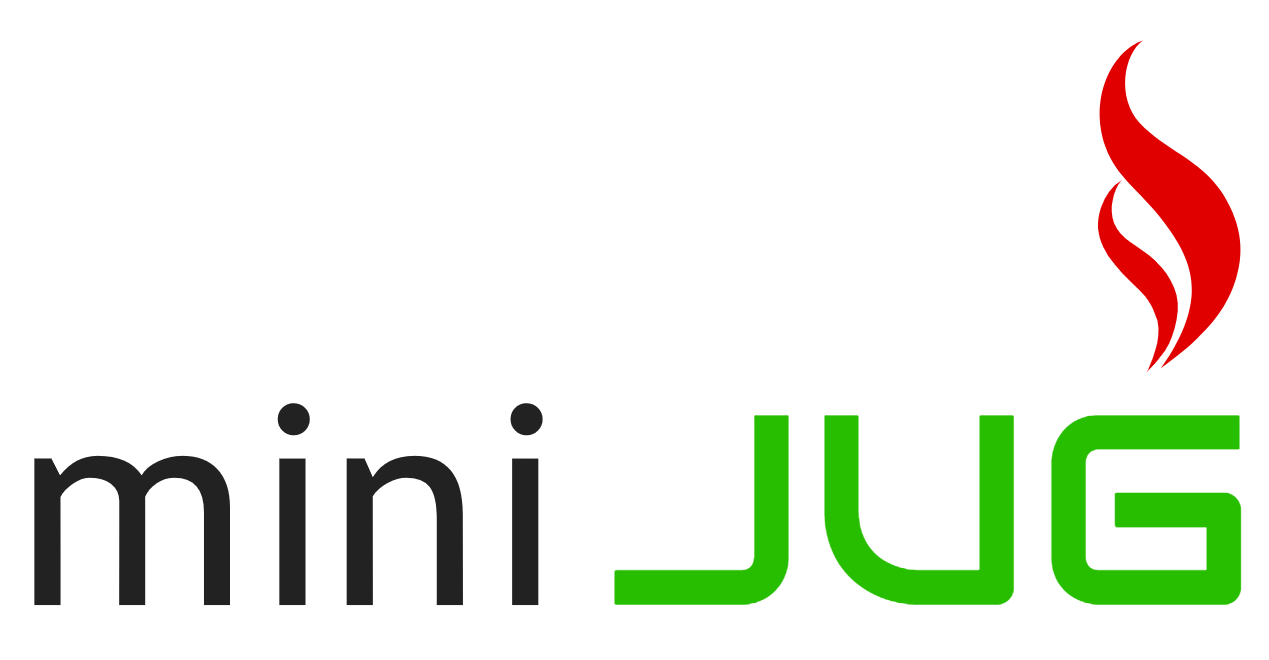
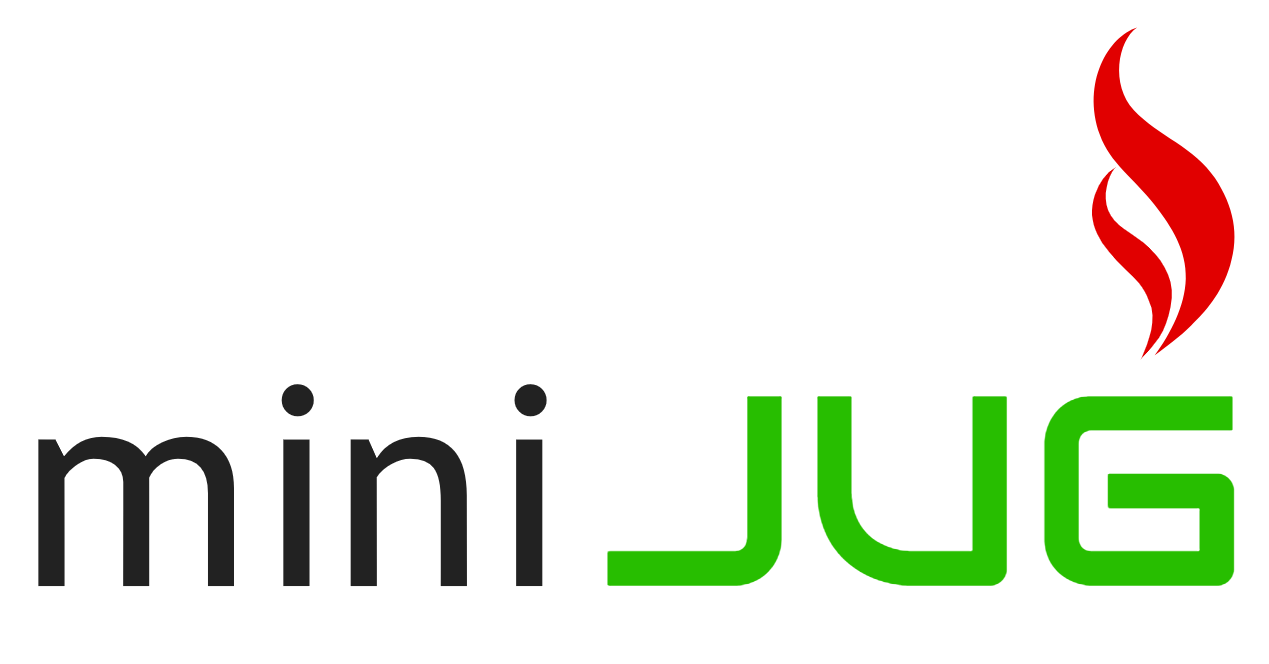
Adjusted minijug.png dimensions

diff --git a/concise_method_bodies.html b/concise_method_bodies.html
@@ -18,7 +18,7 @@
     <meta name="telegram:channel" content="@miniJUG">
     <meta property="og:image" content="https://minijug.ru/minijug.png">
     <meta property="og:image:width" content="1269">
-    <meta property="og:image:height" content="660">
+    <meta property="og:image:height" content="664">
     <meta name="twitter:image" content="https://minijug.ru/minijug.png">
 
     <link rel="shortcut icon" href="/favicon.ico" type="image/x-icon">

diff --git a/epsilon_gc.html b/epsilon_gc.html
@@ -18,7 +18,7 @@
     <meta name="telegram:channel" content="@miniJUG">
     <meta property="og:image" content="https://minijug.ru/minijug.png">
     <meta property="og:image:width" content="1269">
-    <meta property="og:image:height" content="660">
+    <meta property="og:image:height" content="664">
     <meta name="twitter:image" content="https://minijug.ru/minijug.png">
 
     <link rel="shortcut icon" href="/favicon.ico" type="image/x-icon">

diff --git a/hidden_classes.html b/hidden_classes.html
@@ -18,7 +18,7 @@
     <meta name="telegram:channel" content="@miniJUG">
     <meta property="og:image" content="https://minijug.ru/minijug.png">
     <meta property="og:image:width" content="1269">
-    <meta property="og:image:height" content="660">
+    <meta property="og:image:height" content="664">
     <meta name="twitter:image" content="https://minijug.ru/minijug.png">
 
     <link rel="shortcut icon" href="/favicon.ico" type="image/x-icon">

diff --git a/index.html b/index.html
@@ -18,7 +18,7 @@
     <meta name="telegram:channel" content="@miniJUG">
     <meta property="og:image" content="https://minijug.ru/minijug.png">
     <meta property="og:image:width" content="1269">
-    <meta property="og:image:height" content="660">
+    <meta property="og:image:height" content="664">
     <meta name="twitter:image" content="https://minijug.ru/minijug.png">
 
     <link rel="shortcut icon" href="/favicon.ico" type="image/x-icon">

diff --git a/java_10_is_out.html b/java_10_is_out.html
@@ -18,7 +18,7 @@
     <meta name="telegram:channel" content="@miniJUG">
     <meta property="og:image" content="https://minijug.ru/minijug.png">
     <meta property="og:image:width" content="1269">
-    <meta property="og:image:height" content="660">
+    <meta property="og:image:height" content="664">
     <meta name="twitter:image" content="https://minijug.ru/minijug.png">
 
     <link rel="shortcut icon" href="/favicon.ico" type="image/x-icon">

diff --git a/java_10_release_date.html b/java_10_release_date.html
@@ -18,7 +18,7 @@
     <meta name="telegram:channel" content="@miniJUG">
     <meta property="og:image" content="https://minijug.ru/minijug.png">
     <meta property="og:image:width" content="1269">
-    <meta property="og:image:height" content="660">
+    <meta property="og:image:height" content="664">
     <meta name="twitter:image" content="https://minijug.ru/minijug.png">
 
     <link rel="shortcut icon" href="/favicon.ico" type="image/x-icon">

diff --git a/java_11_is_out.html b/java_11_is_out.html
@@ -18,7 +18,7 @@
     <meta name="telegram:channel" content="@miniJUG">
     <meta property="og:image" content="https://minijug.ru/minijug.png">
     <meta property="og:image:width" content="1269">
-    <meta property="og:image:height" content="660">
+    <meta property="og:image:height" content="664">
     <meta name="twitter:image" content="https://minijug.ru/minijug.png">
 
     <link rel="shortcut icon" href="/favicon.ico" type="image/x-icon">

diff --git a/java_12_is_out.html b/java_12_is_out.html
@@ -18,7 +18,7 @@
     <meta name="telegram:channel" content="@miniJUG">
     <meta property="og:image" content="https://minijug.ru/minijug.png">
     <meta property="og:image:width" content="1269">
-    <meta property="og:image:height" content="660">
+    <meta property="og:image:height" content="664">
     <meta name="twitter:image" content="https://minijug.ru/minijug.png">
 
     <link rel="shortcut icon" href="/favicon.ico" type="image/x-icon">

diff --git a/java_13_is_out.html b/java_13_is_out.html
@@ -18,7 +18,7 @@
     <meta name="telegram:channel" content="@miniJUG">
     <meta property="og:image" content="https://minijug.ru/minijug.png">
     <meta property="og:image:width" content="1269">
-    <meta property="og:image:height" content="660">
+    <meta property="og:image:height" content="664">
     <meta name="twitter:image" content="https://minijug.ru/minijug.png">
 
     <link rel="shortcut icon" href="/favicon.ico" type="image/x-icon">

diff --git a/java_14_is_out.html b/java_14_is_out.html
@@ -18,7 +18,7 @@
     <meta name="telegram:channel" content="@miniJUG">
     <meta property="og:image" content="https://minijug.ru/minijug.png">
     <meta property="og:image:width" content="1269">
-    <meta property="og:image:height" content="660">
+    <meta property="og:image:height" content="664">
     <meta name="twitter:image" content="https://minijug.ru/minijug.png">
 
     <link rel="shortcut icon" href="/favicon.ico" type="image/x-icon">

diff --git a/java_18_3.html b/java_18_3.html
@@ -18,7 +18,7 @@
     <meta name="telegram:channel" content="@miniJUG">
     <meta property="og:image" content="https://minijug.ru/minijug.png">
     <meta property="og:image:width" content="1269">
-    <meta property="og:image:height" content="660">
+    <meta property="og:image:height" content="664">
     <meta name="twitter:image" content="https://minijug.ru/minijug.png">
 
     <link rel="shortcut icon" href="/favicon.ico" type="image/x-icon">

diff --git a/java_celebrates_25_years.html b/java_celebrates_25_years.html
@@ -18,7 +18,7 @@
     <meta name="telegram:channel" content="@miniJUG">
     <meta property="og:image" content="https://minijug.ru/minijug.png">
     <meta property="og:image:width" content="1269">
-    <meta property="og:image:height" content="660">
+    <meta property="og:image:height" content="664">
     <meta name="twitter:image" content="https://minijug.ru/minijug.png">
 
     <link rel="shortcut icon" href="/favicon.ico" type="image/x-icon">
